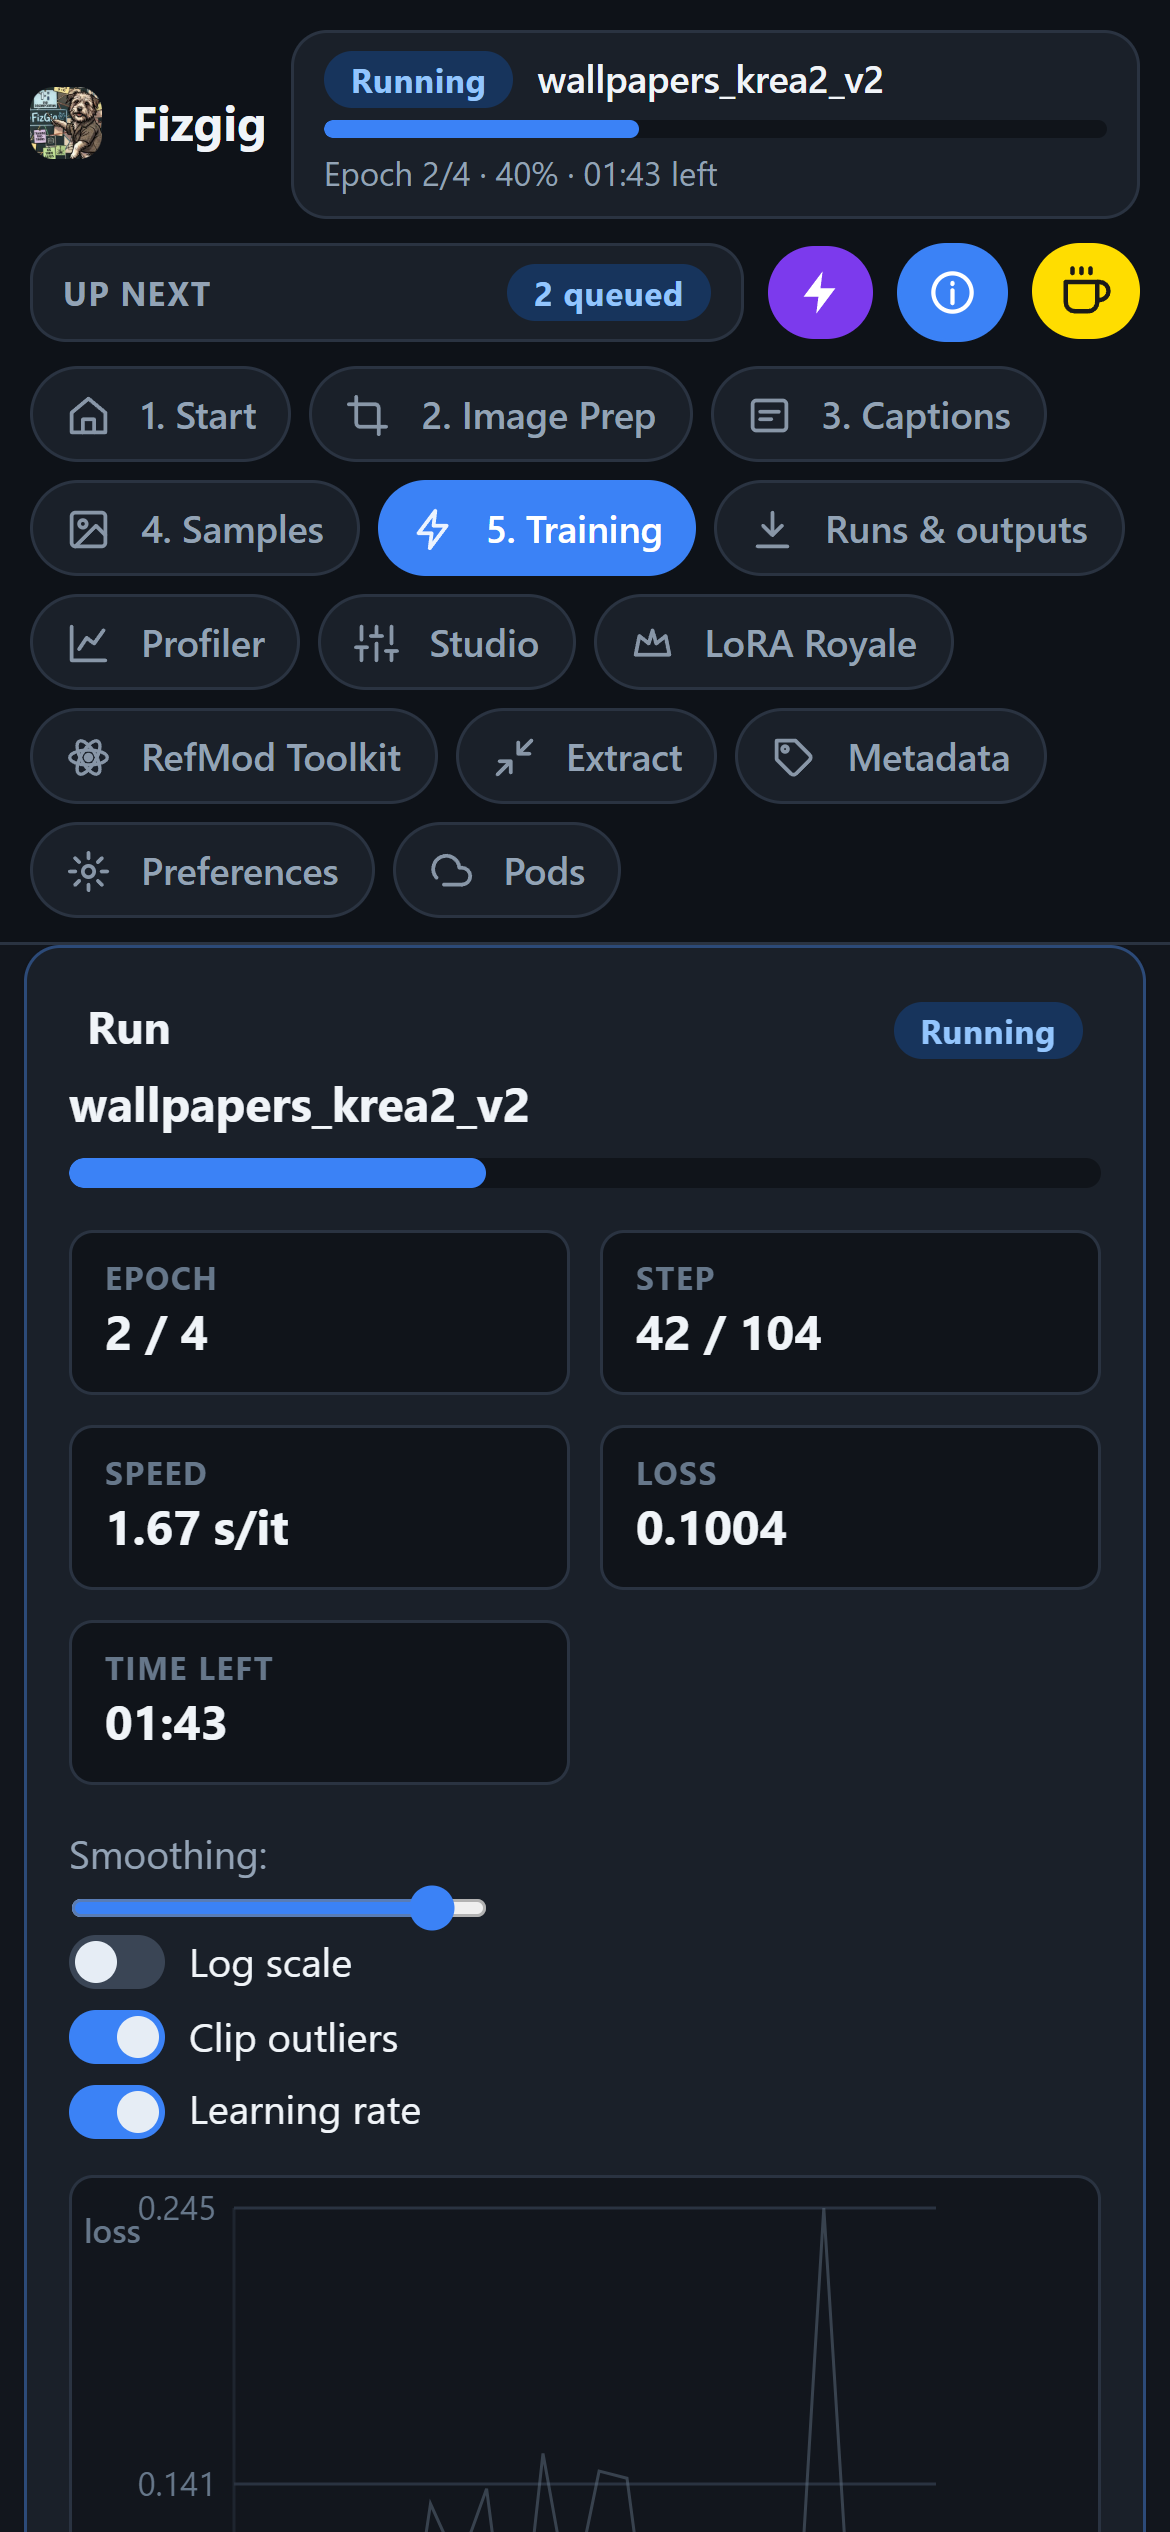
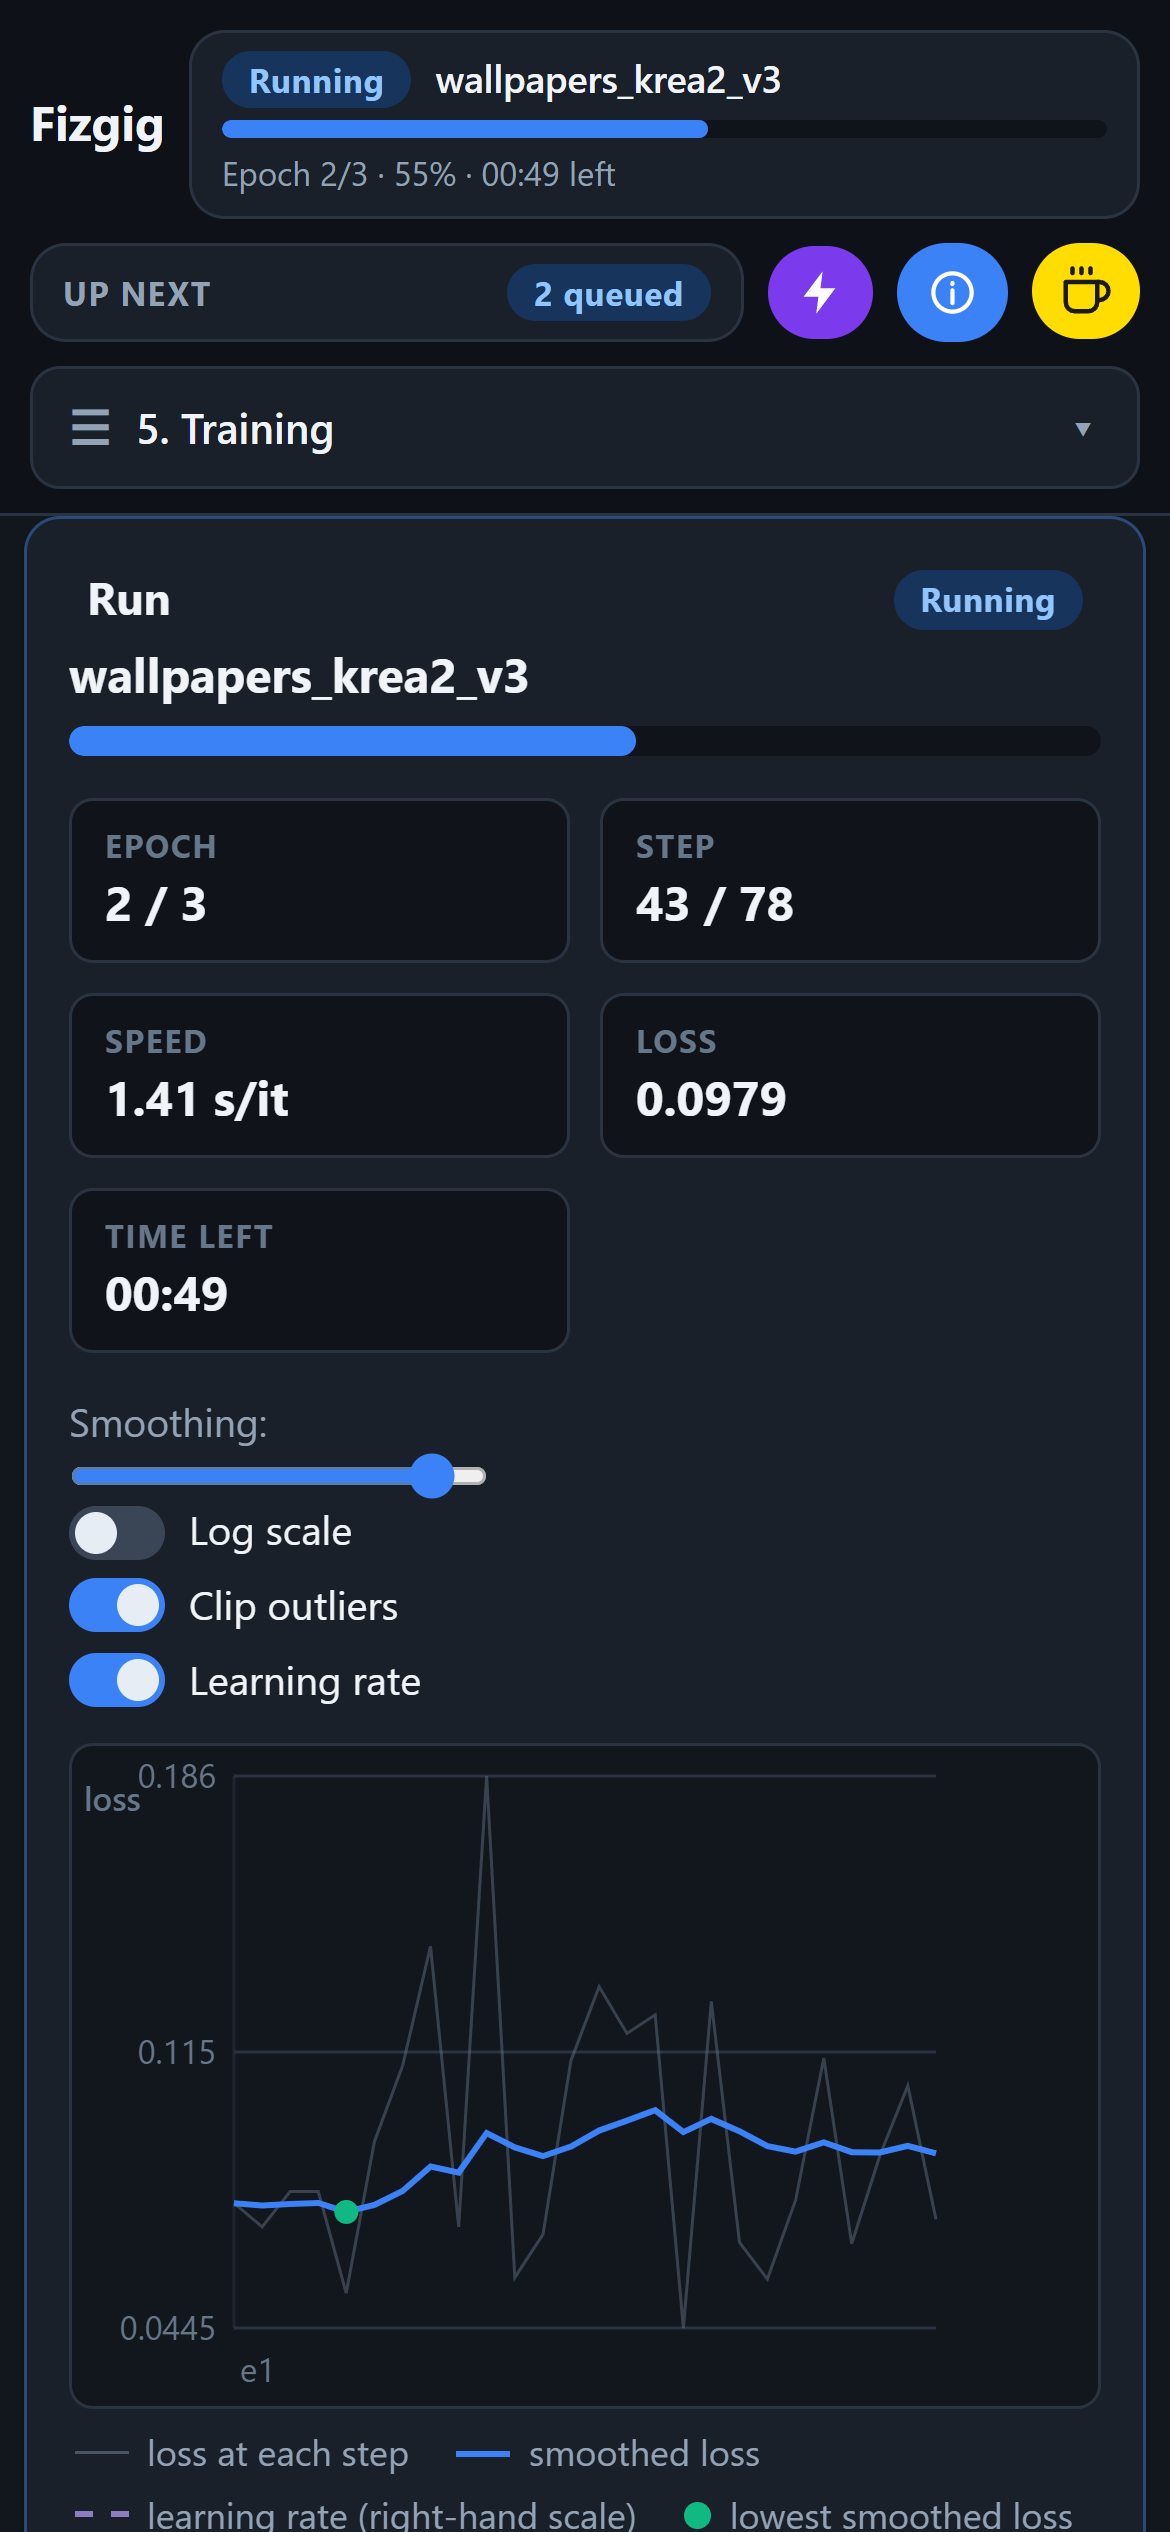
Release notes v8.0.1; the phone screenshot shows the folded tab menu
Claude-Session: https://claude.ai/code/session_01CyQXvXNaeqiZMF27xCp2nF

diff --git a/docs/RELEASE_NOTES_v8.0.1.md b/docs/RELEASE_NOTES_v8.0.1.md
@@ -1,0 +1,68 @@
+# Fizgig v8.0.1: the new app
+
+Fizgig is now a web app. It opens in its own window on the computer it's installed on like a desktop app, or in any browser: start a run at your desk and watch its previews from your phone, use your desktop's GPU from your laptop, or open a rented one on RunPod in the same window. Every tab is rebuilt for it, and there's plenty that the old app never had.
+
+https://github.com/user-attachments/assets/2db82d0d-e7ed-4f60-a79c-d2ac1f4984ac
+
+The 80-second tour, also [on YouTube](https://youtu.be/F8F-vuiZd88).
+
+> **On RunPod and need the old pod?** The previous pod, with the classic app in a remote desktop, stays available as **[Fizgig Classic v7.x](https://console.runpod.io/deploy?type=GPU&gpu=RTX+5090&count=1&template=faoq8ed6um&ref=vkb387ep)** for anyone in the middle of a big job. Pods you already have keep running as they are, and the new [Fizgig template](https://console.runpod.io/deploy?type=GPU&gpu=RTX+5090&count=1&template=bdrdew7hxw&ref=vkb387ep) is the one to deploy from now on.
+
+## Starting Fizgig
+
+- **A welcome on the first start** shows where everything went, with a short tour: the steps are the same, now numbered down the left. Tick **Don't show this again** to keep it closed.
+- **On your computer:** **Launch Fizgig.bat** (Windows) or `./launch_fizgig.sh` (Linux) opens Fizgig in its own window. **Launch Fizgig in browser.bat** opens it in your browser instead, **Launch Fizgig AMD.bat** is for AMD cards, and **Launch Gizmo.bat** opens Gizmo.
+- **Your settings carry over.** Everything of yours now lives in one **user_data** folder inside the Fizgig folder: settings, presets, the cache and downloaded models. Fizgig moves your existing files there the first time it starts, so moving or backing up an install is one folder. It opens on the model you last trained, with its settings, and runs you had queued are in the new queue, waiting for **Start queue**. Your LoRAs are where they were, and each one Fizgig 7 trained is in **Runs & outputs** as a finished run.
+- **The launchers have new names:** `run_fizgig.bat` is now **Launch Fizgig.bat**. If you start Fizgig from a shortcut, point it at the new file.
+- **From another device:** set a password in **Preferences → Web UI** and press **Restart Fizgig now**. The card shows the address to open on your phone or another computer on your network, and on your phone the quickest way in is the Start tab's **Open on your phone** QR code: scan it and you're logged in.
+- **On RunPod:** the pod is now the app itself. Open the pod's HTTP port 8081 and log in with its password. There's no remote desktop any more, so pods start faster, and the file manager is still on port 8080. Closing the browser tab doesn't stop training.
+
+## Your other computers
+
+- **Fizgig finds your other computers by itself.** Fizgig on your desktop shows up in the laptop's **Pods** tab with its name and GPU, marked "On your network", and **Open** uses it from the laptop as if it were a pod. While it trains, the row says what it's training and how many runs are queued after it.
+- **Allow on my network** (Preferences → Web UI, on Windows) lets Fizgig through Windows Firewall on private networks with one administrator's OK. It also clears a block left by a Windows prompt that was cancelled, and the row says when Windows calls your network Public and how to make it Private.
+- **Send a training folder across:** in the Fizgig window, the Start tab's **From this computer** card lists your own training folders on the other computer's page, with a sort order and Refresh. **Send** copies one over with its captions and makes it the training folder.
+- How to set it up: [Your other computers](docs/WEB_UI.md#your-other-computers-use-ones-gpu-from-another).
+
+## New in the app
+
+- **RefMod Toolkit** (MiniMax H3): try RefMods and ReFLoRAs before ComfyUI, with and without them side by side on the same seed, sweeps of one setting at a time, curve presets, numbered references, the exact ComfyUI node values, Bake and Save as ReFLoRA.
+- **Extract from a fine-tune**: the Extract tab turns a full fine-tune into ordinary LoRAs, one per rank you tick, in one pass. It replaces the separate Checkpoint to LoRA app.
+- **Metadata**: read and edit any `.safetensors` file's metadata and thumbnail. Saving rewrites only the header, so even a large checkpoint saves in seconds.
+- **Runs & outputs**: every run with its loss curve and its files, and **per-image loss charts** for the models with the loss watch. You can fix an image's caption from its chart while the run goes, and the trainer re-encodes it at the next epoch.
+- **The queue, in sight:** an **Up next** panel under the run in the sidebar, on every tab, with the next runs in order. A held queue turns amber with the reason and a **Start queue** button. The Run card shows what's up next, and **Add to queue** says where the run landed and what it starts after.
+- **Resume at a new size:** change Target Megapixels while a run is paused and **Resume** offers to carry on at the new size. The pictures are cached again first, keeping what still fits. Train most epochs small and the last few large, say.
+- **Studio** (was Repair Studio): a No-LoRA pane, crop adjust for H3 frames, epoch and LoRA mixes, Model EQ, metrics, and setups you can save and load. For ACE-Step songs there's one full-width player: Baseline, Tweaked and No LoRA from the same moment, loop sections with handles, scrubbing, and block activity that glows as the song plays.
+- **Captions**: each picture's size under it, sort by size to weed out small ones, and remove a picture into a `removed images` folder (it's never deleted).
+- **Samples gallery**: likeness scoring against three photos of your subject, and the run visualiser.
+- **The file picker** has **This computer**, for every drive (Windows) or mounted disk (Linux).
+- **Gizmo** has the new app's look, an **Open Fizgig** button, and opens from the Image Prep tab.
+- **Clips play muted** until you unmute them, and **Play together** pauses them together too.
+
+## The classic app
+
+The old desktop app is gone. Everything it did is in the new app, apart from **LoRA the Explorer**: Studio's **I'm feeling lucky** covers the random variations it was used for. **Diff to LoRA** is gone too; Extract's **From a fine-tune** does its job.
+
+## RunPod
+
+- **The new template runs the app directly:** no remote desktop, a smaller image and a faster start. If you deploy from the [Fizgig template](https://console.runpod.io/deploy?type=GPU&gpu=RTX+5090&count=1&template=bdrdew7hxw&ref=vkb387ep) you'll get it automatically.
+- **The Pods tab** opens your RunPod pods from Fizgig on your own computer, in the same window: paste a pod's ID, or add your RunPod API key and your Fizgig pods are listed with Start and Stop. **Switch to this computer** brings you back, and the window reopens on your pod next time.
+- **Rent a pod:** with your API key, the Pods tab lists the cards RunPod has free right now, filtered by memory, cloud and price, cheapest per run first, with each one's price and roughly what a run costs on it. **Deploy** opens RunPod's page with that card and the template chosen; you press Deploy there.
+- **It logs you in:** in the Fizgig window, a pod whose template sets `FIZGIG_PASSWORD` opens already logged in. The password is read from the pod's settings on RunPod each time and never saved. A password kept as a RunPod secret, or one the pod made up, you type as usual.
+- **An older pod keeps working:** update Fizgig on your computer while a long run goes on a pod and the pod still opens, with a note to restart it when the run is done.
+- **The file manager** on port 8080 has Fizgig's look and opens from the **File manager** button in the pod's sidebar, with links from the Start tab's upload card and Runs & outputs. It now takes the pod's password exactly as it is, at any length; only a very common one gets 0s added (`abc123` becomes `abc123000000`), and the button's tooltip says when.
+- **Watch a pod from your phone:** the Start tab's **Open on your phone** QR code opens the pod on your phone, already logged in for 30 days, so a long run is in your pocket.
+- **Keep me logged in:** a login lasts 30 days on that device and survives the pod restarting.
+- **Stop this pod when a run finishes** is on the Preferences tab, with a two-minute countdown you can cancel from any page.
+- **The password:** set `FIZGIG_PASSWORD` in the template to choose it; otherwise the pod makes one on its first start, prints it in its logs and keeps it. Templates that set `VNC_PASSWORD` keep working.
+- **The Classic template stays for now:** the previous pod with the remote desktop on port 6080, for anyone in the middle of a big job. [Fizgig Classic v7.x](https://console.runpod.io/deploy?type=GPU&gpu=RTX+5090&count=1&template=faoq8ed6um&ref=vkb387ep). Pods you already have keep running as Classic pods; both use the same `/workspace`, so a volume moves across with its models, datasets, LoRAs, settings and past runs.
+
+## Thanks
+
+Thanks to @vishnuteja7054 for pull request #182 that set me on the road to making this work.
+
+## New in 8.0.1
+
+- **Open on your phone:** a new card at the bottom of the Start tab. Press **Show QR code** and scan it with your phone's camera: it opens Fizgig already logged in, and the phone stays logged in for 30 days. On a pod it opens the pod's public address, so you can keep an eye on a long run from anywhere. The code shows for 30 seconds and each one works once. It needs a password set, and the card says how if there isn't one.
+- **The tabs fold away on a phone:** a menu button at the top shows the tab you're on; tap it for the tabs, and picking one folds them again.
+- **A tidier top bar on a phone:** the name, the run and the buttons fit on one line.

diff --git a/README.md b/README.md
@@ -107,7 +107,7 @@ Full list: [docs/TRAINING.md](docs/TRAINING.md). Everything also runs headless: 
 
 - **In its own window** (`Launch Fizgig.bat`), or **in your browser** (`Launch Fizgig in browser.bat`) — the same app either way.
 - **The queue in sight**: what's training and what's up next sit in the sidebar on every tab; a held queue says why, with Start queue right there.
-- **On your phone or another computer**: set a password in Preferences and open it over your network; add it to your phone's home screen and it opens like an app.
+- **On your phone or another computer**: set a password in Preferences and open it over your network, or scan the Start tab's **Open on your phone** QR code and you're straight in; add it to your phone's home screen and it opens like an app.
 - **On your other computer's GPU**: train on your desktop's card from your laptop. Fizgig finds your other computers running it, and the **Pods** tab opens one as it does a pod ([how](docs/WEB_UI.md#your-other-computers-use-ones-gpu-from-another)).
 - **On a rented GPU**: the **Pods** tab finds the card that's cheapest per run among those RunPod has free right now, deploys it, opens the pod in the same window (logged in for you), and sends a training folder from your computer straight to it.
 - **Runs & outputs** keeps every run with its loss graph, notes, previews and checkpoints, and starts any of them again with the same settings.
